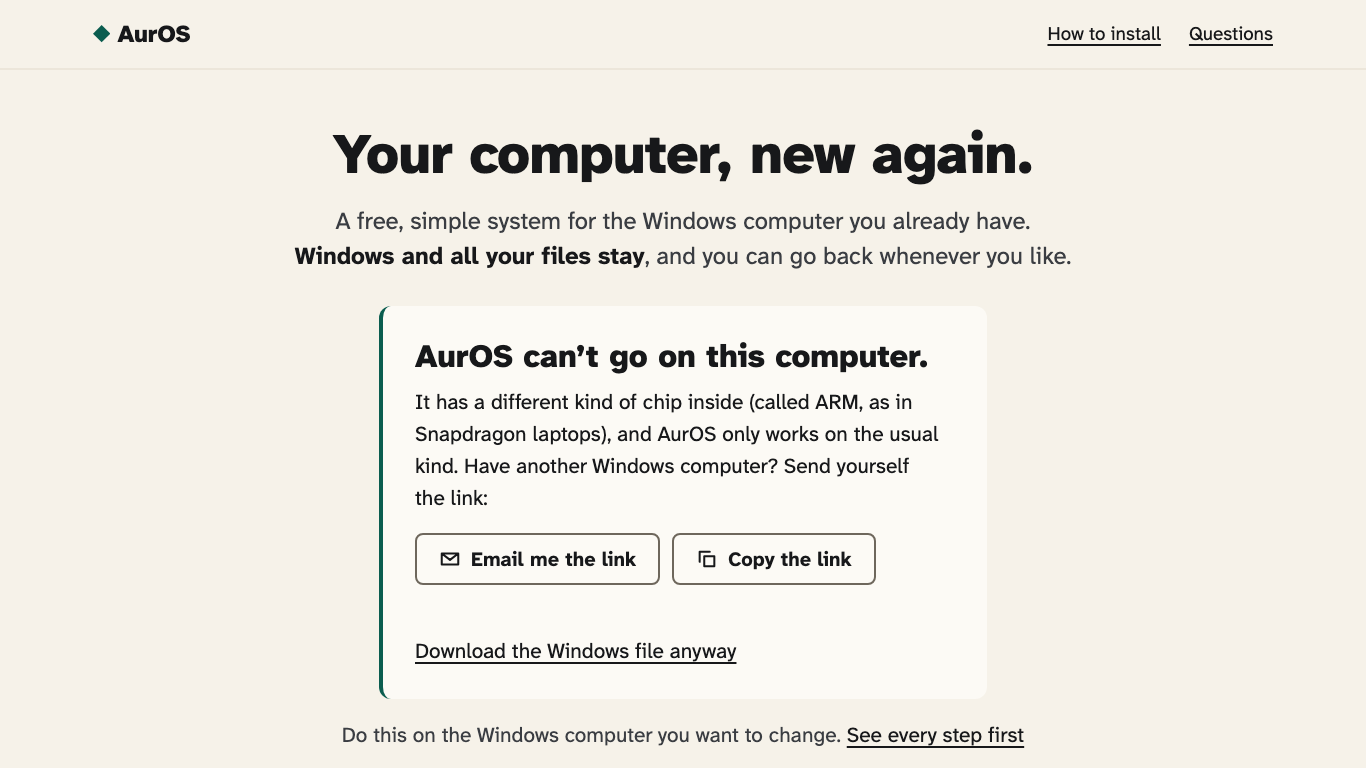
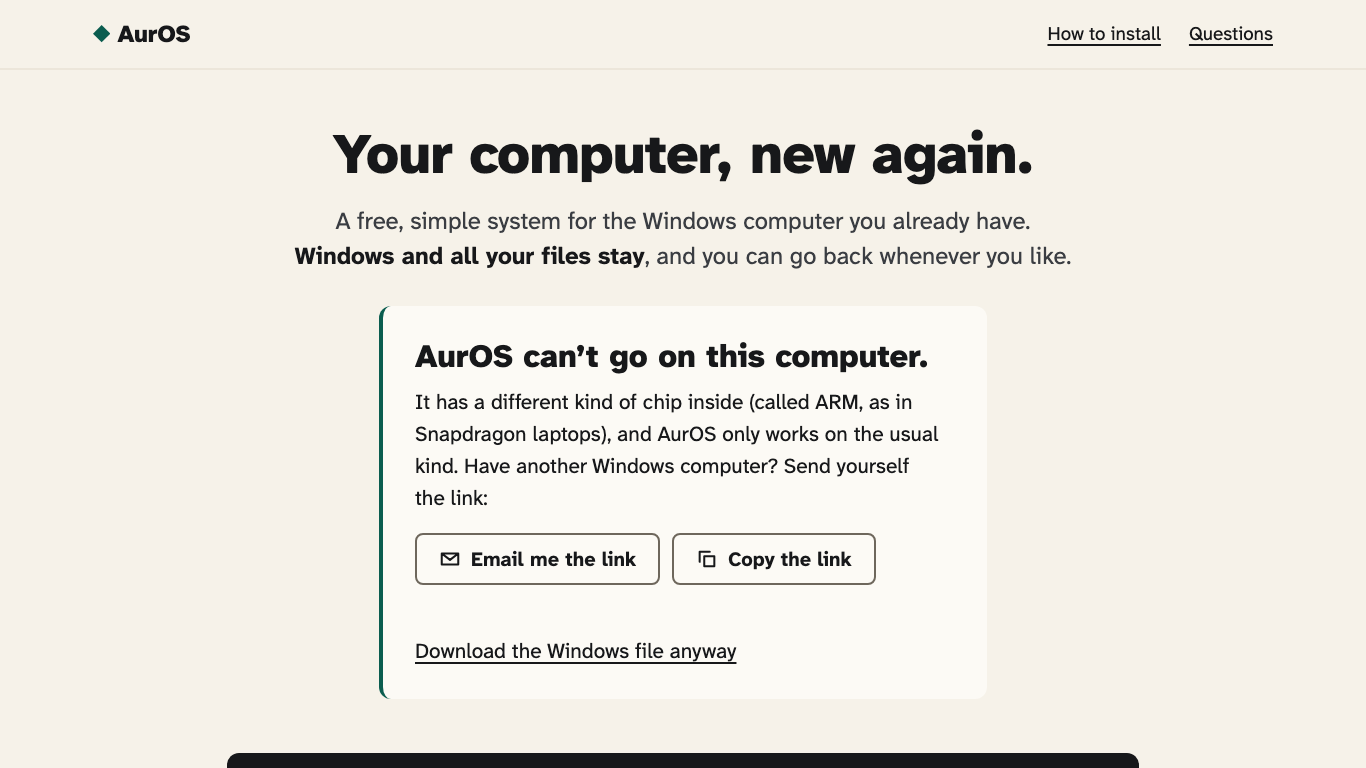
website: on a phone, the picture of what she gets comes first
DESIGN-DIRECTION D P2-12: a phone shows the computer AurOS makes between
the sentence and "Send yourself the link", small enough that the message
still starts on the first screen (checked on the iPhone 13 viewport). On a
Mac or phone the line repeating "do this on the Windows computer" goes,
since the box says it.

Changed region(s): [[0.1537, 0.9375, 0.8302, 1.0]]

diff --git a/website/assets/site.css b/website/assets/site.css
@@ -98,6 +98,16 @@ button.get { border: 0; cursor: pointer; }
 .k-linux [data-kind~="linux"], .k-arm [data-kind~="arm"], .k-win32 [data-kind~="win32"] { display: block; }
 .else-actions { display: flex; flex-wrap: wrap; gap: 12px; margin: 18px 0 8px; }
 .k-mac #copy-link { order: -1; }
+/* On a phone, the picture of what she gets comes before "Send yourself
+ * the link" (DESIGN-DIRECTION 5, D P2-12). */
+.k-phone .hero .wrap { display: flex; flex-direction: column; }
+.is-elsewhere .hero .hint { display: none; }
+.k-phone .hero { padding-top: 24px; }
+.k-phone .hero .device { order: 1; width: 62%; margin: 0 auto 16px; }
+.k-phone .hero .promise { margin-bottom: 20px; }
+.k-phone .hero .caption { display: none; }
+.k-phone .hero .elsewhere { order: 2; }
+.k-phone .hero .hint { order: 3; }
 .copied { min-height: 1.5em; color: var(--ink); font-weight: 700; margin: 0; }
 .anyway { margin: 10px 0 0; }
 

diff --git a/docs/handoff/streams/D.md b/docs/handoff/streams/D.md
@@ -61,7 +61,7 @@ phones/Macs get "open this on your Windows PC" + send-yourself-the-link.
 - The slashed zero in "10" is the font's (P2: AurOS Sans, C/B/D together).
 
 ## Half-done / next
-- P2-12 phones: a 16:10 crop of the home screen above "Send yourself the link".
+- P2-12 done: on a phone the picture comes before "Send yourself the link"; a Mac gets Copy first.
 
 ## How to verify
 ```sh
